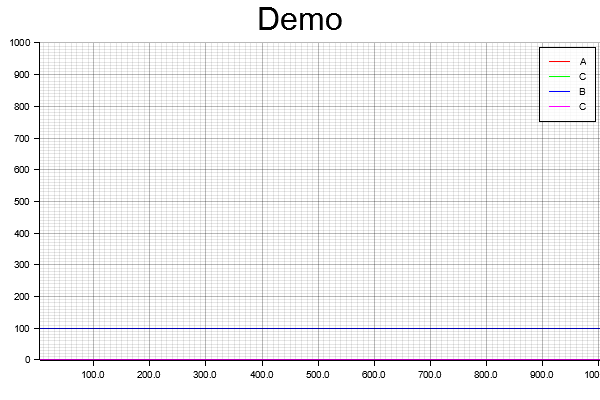
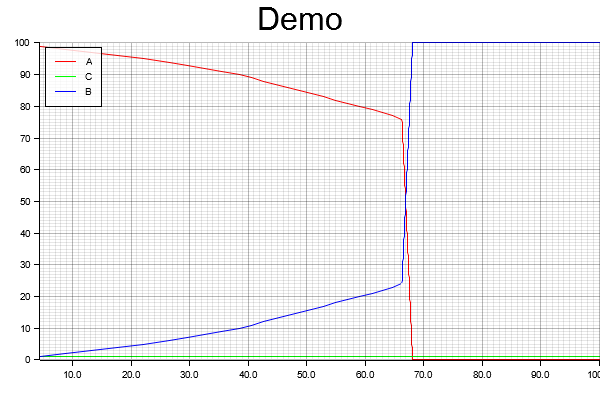
Monitor and plotter kinda works

diff --git a/StochasticSimulation/src/plotter.rs b/StochasticSimulation/src/plotter.rs
@@ -1,10 +1,9 @@
-use std::collections::HashSet;
+use std::collections::{HashMap, HashSet};
 use plotters::prelude::*;
 use crate::monitor::SystemStateSnapshot;
+use crate::reaction::SpeciesRole;
 
-pub fn plot(data: &Vec<SystemStateSnapshot>) {
-
-
+pub fn plot(data: &Vec<SystemStateSnapshot>, species_to_plot: &[(&str, SpeciesRole)]) {
     let root_drawing_area = BitMapBackend::new("images/0.4.png", (600, 400))
         .into_drawing_area();
 
@@ -15,7 +14,7 @@ pub fn plot(data: &Vec<SystemStateSnapshot>) {
 
     // Flatten the list of reactions from each snapshot into a continuous sequence
     // of all reactions across all snapshots, and then find the maximum reaction.
-    let max_quantity = 1000;
+    let max_quantity = 100;
         //data.iter()
         //.flat_map(|snap| snap.reactions.iter())
         //.max()
@@ -25,65 +24,46 @@ pub fn plot(data: &Vec<SystemStateSnapshot>) {
         .set_label_area_size(LabelAreaPosition::Left, 40)
         .set_label_area_size(LabelAreaPosition::Bottom, 40)
         .caption("Demo", ("sans-serif", 40))
-        .build_cartesian_2d(min_time..max_time, 0..max_quantity)
+        .build_cartesian_2d(min_time..100.0, 0..max_quantity)
         .unwrap();
 
-    let first_snapshot = data.first().unwrap();
+    let species_to_plot_names: HashSet<&str> = species_to_plot.iter()
+        .map(|(name, _role) | *name)
+        .collect();
 
-    let unique_species = first_snapshot.reactions.iter()
-        .flat_map(|reaction| {
+    let mut series_data_by_species: HashMap<String, Vec<(f64, i32)>> = HashMap::new();
+
+    for snapshots in data.iter() {
+        let time = snapshots.time;
+
+        for reaction in snapshots.reactions.iter() {
             let reaction_guard = reaction.lock().unwrap();
 
-            let species: Vec<_> = reaction_guard.reactants.iter()
-                .chain(reaction_guard.products.iter())
-                .cloned()
-                .collect();
-            species
-        })
-        .map(|species| {
-            let species_guard = species.lock().unwrap();
-            species_guard.name.clone()
-    }).collect::<Vec<String>>();
+            for species in reaction_guard.reactants.iter().chain(reaction_guard.products.iter()) {
+                let species_guard = species.lock().unwrap();
 
-
-    for species in unique_species.iter() {
-        println!("{}", species)
+                if species_to_plot_names.contains(&species_guard.name.as_str()) {
+                    series_data_by_species
+                        .entry(species_guard.name.clone())
+                        .or_default()
+                        .push((time, species_guard.get_quantity()))
+                }
+            }
+        }
     }
+
     fn generate_color(index: usize) -> RGBColor {
         let colors = [RED, GREEN, BLUE, MAGENTA, CYAN, YELLOW];  // Add more colors if necessary
         colors[index % colors.len()]
     }
 
-    for (index, species_name) in unique_species.iter().enumerate() {
+    for (index, (species_name, species_data)) in series_data_by_species.iter().enumerate() {
         let color = generate_color(index);
 
-        let series_data: Vec<_> = data.iter().map(|snap| {
-            let time = snap.time;
-
-            let quantity_for_species = snap.reactions.iter()
-                .flat_map(|reaction| {
-                    let reaction_guard = reaction.lock().unwrap();
-
-                    let species: Vec<_> = reaction_guard.reactants.iter()
-                        .chain(reaction_guard.products.iter())
-                        .cloned()
-                        .collect();
-                    species
-                })
-                .find(|species| {
-                    let species_guard = species.lock().unwrap();
-
-                    &species_guard.name == species_name
-            }).unwrap();
-
-            let species_guard = quantity_for_species.lock().unwrap();
-            let quantity = species_guard.get_quantity();
-
-            (time, quantity)
-        }).collect();
-
-        ctx.draw_series(LineSeries::new(series_data, &color))
-            .unwrap()
+        ctx.draw_series(LineSeries::new(
+            species_data.iter().cloned(),
+            &color
+        )).unwrap()
             .label(species_name)
             .legend(move |(x, y)| PathElement::new(vec![(x, y), (x + 20, y)], &color));
     }
@@ -91,7 +71,7 @@ pub fn plot(data: &Vec<SystemStateSnapshot>) {
     ctx.configure_mesh().draw().unwrap();
 
     ctx.configure_series_labels()
-        .position(SeriesLabelPosition::UpperRight)
+        .position(SeriesLabelPosition::UpperLeft)
         .background_style(&WHITE.mix(0.8))
         .border_style(&BLACK)
         .draw()

diff --git a/StochasticSimulation/src/monitor.rs b/StochasticSimulation/src/monitor.rs
@@ -87,10 +87,9 @@ impl DefaultMonitor {
         }
     }
 
-
     pub fn visualize_data(&self, species_to_plot: &[(&str, SpeciesRole)]) {
         if let Some(data_to_plot) = self.extract_plot_data(species_to_plot) {
-            plot(&data_to_plot);
+            plot(&data_to_plot, &species_to_plot);
         } else {
             println!("No data to log");
         }
@@ -101,9 +100,44 @@ impl Monitor<Vec<Arc<Mutex<Reaction>>>> for DefaultMonitor {
     fn record_state(&mut self, time: f64, reactions: &Vec<Arc<Mutex<Reaction>>>) {
         let snapshot = SystemStateSnapshot {
             time,
-            reactions: reactions.clone()
+            reactions: reactions.iter().map(|reaction_arc| {
+                let reaction = reaction_arc.lock().unwrap();
+
+                // Create new Species instances to hold the current state
+                let reactants = reaction.reactants.iter()
+                    .map(|species_arc| {
+                        let species = species_arc.lock().unwrap();
+                        Arc::new(Mutex::new(Species {
+                            name: species.name.clone(),
+                            quantity: species.quantity
+                        }))
+                    })
+                    .collect();
+
+                let products = reaction.products.iter()
+                    .map(|species_arc| {
+                        let species = species_arc.lock().unwrap();
+                        Arc::new(Mutex::new(Species {
+                            name: species.name.clone(),
+                            quantity: species.quantity
+                        }))
+                    })
+                    .collect();
+
+                // Create a new Reaction instance to hold the current state
+                Arc::new(Mutex::new(Reaction {
+                    reactants,
+                    products,
+                    delay: reaction.delay,
+                    lambda: reaction.lambda,
+                    uuid: reaction.uuid,
+                    formula: reaction.formula.clone()
+                }))
+            })
+                .collect(),
         };
 
         self.history.push(snapshot);
     }
+
 }

diff --git a/StochasticSimulation/src/main.rs b/StochasticSimulation/src/main.rs
@@ -42,6 +42,6 @@ fn main() {
 
     system.simulation(1000.0, &mut visitor, &mut rng, &mut monitor);
 
-    let species_to_monitor = &[("A", SpeciesRole::Reactant), ("B", SpeciesRole::Product)];
+    let species_to_monitor = &[("A", SpeciesRole::Reactant), ("B", SpeciesRole::Product), ("C", SpeciesRole::Product)];
     monitor.visualize_data(species_to_monitor);
 }

diff --git a/StochasticSimulation/src/system.rs b/StochasticSimulation/src/system.rs
@@ -39,6 +39,7 @@ impl ChemicalSystem {
             self.accept(visitor, rng);
 
             let min_delay = visitor.min_delay().unwrap_or(f64::MAX);
+            println!("{}", min_delay);
             start_time += min_delay;
 
             let reactions_vec: Vec<_> = self.symbol_table.symbols.values().cloned().collect();
